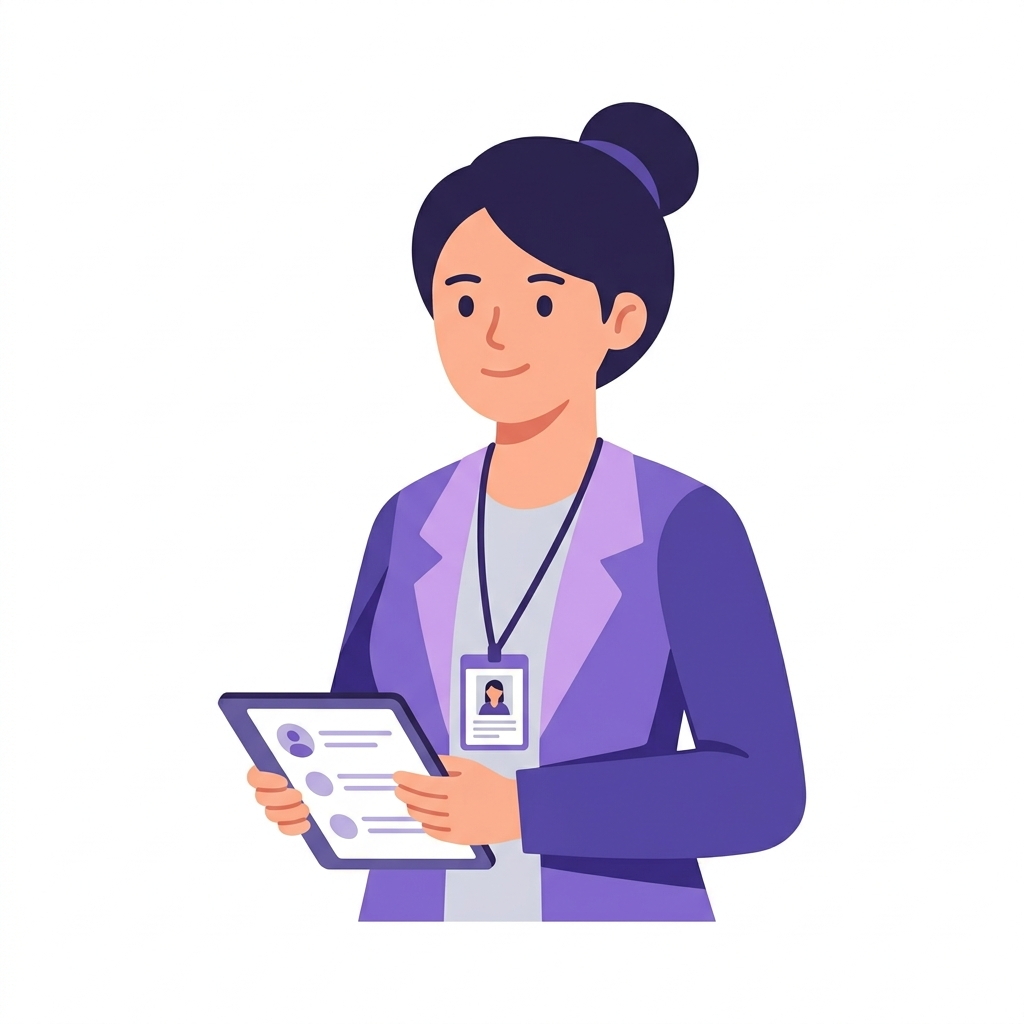
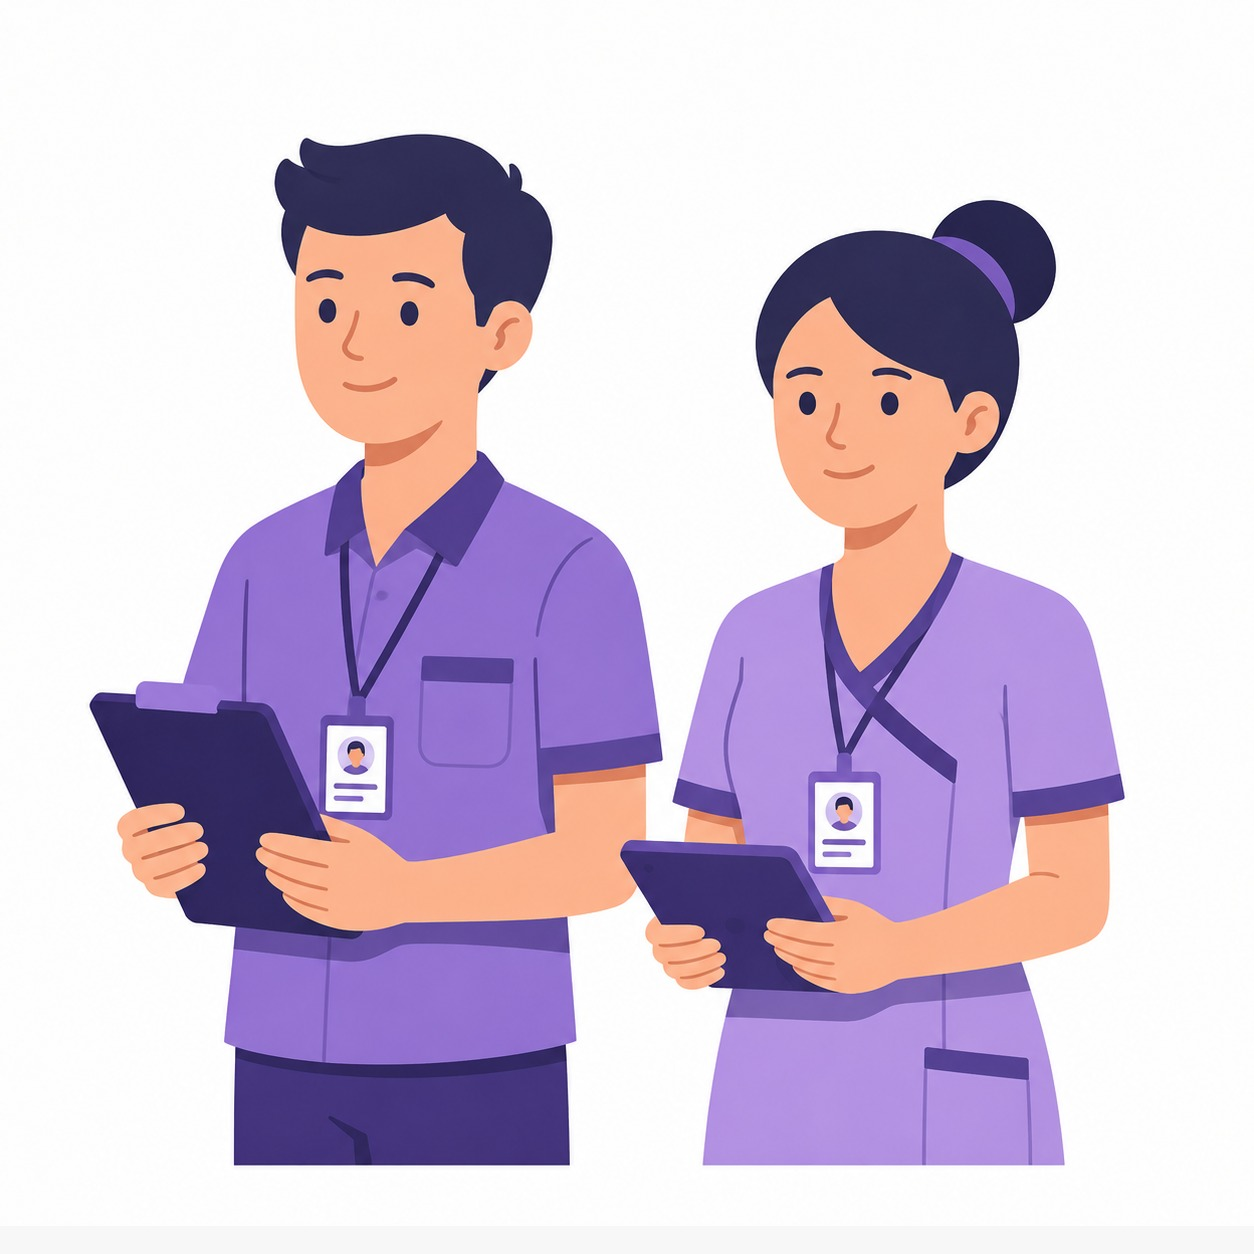
Improvise the UI interface of the grid login base  and make them into two parts as Student and other one as staff

diff --git a/safeexit/src/app/login/page.js b/safeexit/src/app/login/page.js
@@ -2,9 +2,10 @@
 
 import { useState, useEffect } from "react";
 import { useRouter } from "next/navigation";
-import { Shield, LogIn, Headphones, ShieldCheck, GraduationCap, UserCog, UserCheck, Crown, Lock, CheckCircle, ArrowLeft } from "lucide-react";
+import { Shield, Headphones, ShieldCheck, GraduationCap, UserCog, UserCheck, Crown, Lock, CheckCircle, ArrowLeft, ArrowRight, LogIn } from "lucide-react";
 import Image from "next/image";
 import Link from "next/link";
+import caretakerIllustration from "../../../public/images/login/caretaker.png";
 import { getToken } from "@/app/lib/auth";
 import { getStoredUser } from "@/app/lib/userProfile";
 import { CHIEF_WARDEN_PIN_KEY } from "@/app/lib/chiefWardenQuickLogin";
@@ -35,52 +36,198 @@ const ROLE_DASHBOARD = {
   admin: "/dashboard/admin",
 };
 
+// The versioned filename prevents Next/Image from serving the previously cached single-student artwork.
+const STUDENT_ILLUSTRATION = "/images/login/student-team.png";
+const STAFF_ILLUSTRATION = caretakerIllustration;
+
 const allRoles = [
   {
     id: "security",
-    title: "Security",
+    title: "Security Guard",
     icon: ShieldCheck,
     image: "/images/login/security-guard.png",
-    description: "Login as Security Guard to scan and verify entries",
-    buttonText: "Login as Security",
+    description: "Scan passes and verify student entry and exit.",
     href: "/login/security",
-    color: "from-indigo-500 to-indigo-700",
-    iconBg: "bg-indigo-100 text-indigo-600",
+    eyebrow: "Gate operations",
+    features: ["QR pass verification", "Entry and exit logs"],
+    accentClass: "bg-blue-600",
+    iconClass: "bg-blue-50 text-blue-700 ring-blue-100",
+    visualClass: "from-blue-50 via-indigo-50 to-white border-blue-100",
+    imageClass: "scale-[1.12] group-hover:scale-[1.17]",
   },
   {
     id: "student",
     title: "Student",
     icon: GraduationCap,
-    image: "/images/login/student.png",
-    description: "Login to request outings, view permissions and more",
-    buttonText: "Login as Student",
+    image: STUDENT_ILLUSTRATION,
+    description: "Request outings, track approvals and manage your campus access.",
     href: "/login/student",
-    color: "from-violet-500 to-violet-700",
-    iconBg: "bg-violet-100 text-violet-600",
+    eyebrow: "Student access",
+    features: ["Outing requests", "Live approval status"],
+    accentClass: "bg-indigo-600",
+    iconClass: "bg-indigo-50 text-indigo-700 ring-indigo-100",
+    visualClass: "from-indigo-50 via-violet-50 to-white border-indigo-100",
+    imageClass: "scale-[1.12] group-hover:scale-[1.17]",
   },
   {
     id: "caretaker",
     title: "Caretaker",
     icon: UserCog,
-    image: "/images/login/caretaker.png",
-    description: "Login to approve requests, manage complaints and monitor",
-    buttonText: "Login as Caretaker",
+    image: STAFF_ILLUSTRATION,
+    description: "Review requests, handle complaints and monitor students.",
     href: "/login/caretaker",
-    color: "from-purple-500 to-purple-700",
-    iconBg: "bg-purple-100 text-purple-600",
+    eyebrow: "Hostel operations",
+    features: ["Request review", "Student support"],
+    accentClass: "bg-violet-600",
+    iconClass: "bg-violet-50 text-violet-700 ring-violet-100",
+    visualClass: "from-violet-50 via-purple-50 to-white border-violet-100",
+    imageClass: "scale-[1.24] group-hover:scale-[1.29]",
   },
   {
     id: "warden",
     title: "Warden",
     icon: UserCheck,
-    image: "/images/login/caretaker.png",
-    description: "Login to decide the requests caretakers forward up to you",
-    buttonText: "Login as Warden",
+    image: STAFF_ILLUSTRATION,
+    description: "Review and decide requests forwarded by caretakers.",
     href: "/login/warden",
-    color: "from-teal-500 to-teal-700",
-    iconBg: "bg-teal-100 text-teal-600",
+    eyebrow: "Approvals and oversight",
+    features: ["Final decisions", "Escalation review"],
+    accentClass: "bg-purple-700",
+    iconClass: "bg-purple-50 text-purple-700 ring-purple-100",
+    visualClass: "from-purple-50 via-fuchsia-50/60 to-white border-purple-100",
+    imageClass: "scale-[1.24] group-hover:scale-[1.29]",
   },
 ];
+
+const STAFF_ROLE_IDS = new Set(["security", "caretaker", "warden"]);
+
+const staffCategory = {
+  id: "staff",
+  title: "Staff",
+  icon: UserCog,
+  description: "Access tools for security guards, caretakers and wardens.",
+  eyebrow: "Staff access",
+  features: ["Three dedicated roles", "Secure role-based tools"],
+  accentClass: "bg-violet-600",
+  iconClass: "bg-violet-50 text-violet-700 ring-violet-100",
+};
+
+const primaryButtonClass =
+  "mt-auto inline-flex w-full items-center justify-center gap-2 rounded-xl bg-indigo-600 px-4 py-3 text-sm font-bold text-white shadow-md shadow-indigo-600/20 transition-all duration-200 hover:bg-indigo-700 hover:shadow-lg hover:shadow-indigo-600/25 active:scale-[0.98] focus-visible:outline-none focus-visible:ring-2 focus-visible:ring-indigo-600 focus-visible:ring-offset-2";
+
+function RoleVisual({ role }) {
+  if (role.id === "staff") {
+    const staffIcons = [ShieldCheck, UserCog, UserCheck];
+
+    return (
+      <div className="relative mb-5 flex h-40 w-full items-center justify-center overflow-hidden rounded-2xl border border-violet-100 bg-gradient-to-br from-indigo-50 via-violet-50 to-white sm:h-48">
+        <div className="absolute -right-10 -top-12 h-36 w-36 rounded-full bg-violet-200/30 blur-2xl" />
+        <div className="absolute -bottom-12 -left-8 h-32 w-32 rounded-full bg-indigo-200/40 blur-2xl" />
+        <div className="relative flex items-end justify-center gap-2.5 sm:gap-3">
+          {staffIcons.map((Icon, index) => (
+            <div
+              key={index}
+              className={`flex items-center justify-center rounded-2xl border border-white bg-white/95 text-indigo-600 shadow-lg shadow-indigo-100 transition-transform duration-300 group-hover:-translate-y-1 ${
+                index === 1 ? "h-20 w-20 sm:h-24 sm:w-24" : "h-16 w-16 sm:h-20 sm:w-20"
+              }`}
+            >
+              <Icon className={index === 1 ? "h-9 w-9 sm:h-11 sm:w-11" : "h-7 w-7 sm:h-9 sm:w-9"} />
+            </div>
+          ))}
+        </div>
+      </div>
+    );
+  }
+
+  return (
+    <div className={`relative mb-5 h-40 w-full overflow-hidden rounded-2xl border bg-gradient-to-br sm:h-48 ${role.visualClass}`}>
+      <div className="absolute -right-10 -top-12 h-36 w-36 rounded-full bg-white/80 blur-2xl" />
+      <div className="absolute -bottom-14 -left-10 h-36 w-36 rounded-full bg-indigo-200/25 blur-2xl" />
+      <Image
+        src={role.image}
+        alt={`${role.title} illustration`}
+        fill
+        sizes="(max-width: 768px) 100vw, 320px"
+        className={`relative z-10 object-contain transition-transform duration-500 ${role.imageClass}`}
+      />
+    </div>
+  );
+}
+
+function RoleCard({ role, onSelect }) {
+  const Icon = role.icon;
+  const actionContent = onSelect ? (
+    <>
+      Choose staff role
+      <ArrowRight className="h-4 w-4" aria-hidden="true" />
+    </>
+  ) : (
+    <>
+      Login
+      <LogIn className="h-4 w-4" aria-hidden="true" />
+    </>
+  );
+
+  return (
+    <article className="group relative flex h-full flex-col items-center overflow-hidden rounded-3xl border border-slate-200/90 bg-white/95 p-5 text-center shadow-[0_10px_35px_rgba(79,70,229,0.08)] transition-all duration-300 hover:-translate-y-1 hover:border-indigo-200 hover:shadow-[0_22px_55px_rgba(79,70,229,0.16)] sm:p-6">
+      <div className={`absolute inset-x-0 top-0 h-1 ${role.accentClass}`} />
+
+      <div className="mb-4 flex w-full items-center justify-between gap-3 pt-1">
+        <span className="text-[11px] font-extrabold uppercase tracking-[0.16em] text-slate-500">
+          {role.eyebrow}
+        </span>
+        <span className="inline-flex items-center gap-1.5 rounded-full border border-emerald-100 bg-emerald-50 px-2.5 py-1 text-[10px] font-bold uppercase tracking-wide text-emerald-700">
+          <span className="h-1.5 w-1.5 rounded-full bg-emerald-500" />
+          Secure
+        </span>
+      </div>
+
+      <RoleVisual role={role} />
+
+      <div className={`mb-3 flex h-11 w-11 items-center justify-center rounded-xl shadow-sm ring-1 ${role.iconClass}`}>
+        <Icon className="h-5 w-5" aria-hidden="true" />
+      </div>
+
+      <h2 className="mb-1.5 text-lg font-bold text-slate-900 sm:text-xl">
+        {role.title}
+      </h2>
+      <p className="mb-5 max-w-[260px] flex-1 text-sm font-medium leading-6 text-slate-500">
+        {role.description}
+      </p>
+
+      <div className="mb-5 grid w-full grid-cols-1 gap-2 text-left">
+        {role.features.map((feature) => (
+          <div
+            key={feature}
+            className="flex min-h-10 items-center gap-2.5 rounded-xl border border-slate-100 bg-slate-50/80 px-3 py-2 text-xs font-semibold text-slate-600"
+          >
+            <CheckCircle className="h-4 w-4 shrink-0 text-indigo-500" aria-hidden="true" />
+            {feature}
+          </div>
+        ))}
+      </div>
+
+      {onSelect ? (
+        <button
+          type="button"
+          onClick={onSelect}
+          className={primaryButtonClass}
+          aria-label="Choose a staff role"
+        >
+          {actionContent}
+        </button>
+      ) : (
+        <Link
+          href={role.href}
+          className={primaryButtonClass}
+          aria-label={`Login as ${role.title}`}
+        >
+          {actionContent}
+        </Link>
+      )}
+    </article>
+  );
+}
 
 export default function LoginRoleSelect() {
   const router = useRouter();
@@ -91,6 +238,7 @@ export default function LoginRoleSelect() {
   const [enrolledRoles, setEnrolledRoles] = useState([]);
 
   const [showAll, setShowAll] = useState(false);
+  const [roleView, setRoleView] = useState("primary");
 
   useEffect(() => {
     /* eslint-disable react-hooks/set-state-in-effect -- hydrate role/session state from browser storage once on mount */
@@ -125,10 +273,20 @@ export default function LoginRoleSelect() {
   }, [router]);
 
   const enrolledPrimaryRoles = enrolledRoles.filter((role) => allRoles.some((item) => item.id === role));
-  const visibleRoles =
+  const availableRoles =
     showAll || enrolledPrimaryRoles.length === 0
       ? allRoles
       : allRoles.filter((r) => enrolledPrimaryRoles.includes(r.id));
+
+  const availableStudentRole = availableRoles.find((role) => role.id === "student");
+  const availableStaffRoles = availableRoles.filter((role) => STAFF_ROLE_IDS.has(role.id));
+  const visibleRoles =
+    roleView === "staff"
+      ? availableStaffRoles
+      : [
+          ...(availableStudentRole ? [availableStudentRole] : []),
+          ...(availableStaffRoles.length > 0 ? [staffCategory] : []),
+        ];
 
   if (pageState !== "ready") {
     return (
@@ -178,6 +336,7 @@ export default function LoginRoleSelect() {
   }
 
   const isFiltered = !showAll && enrolledPrimaryRoles.length > 0;
+  const isStaffView = roleView === "staff";
 
   return (
     <div className="min-h-screen flex flex-col bg-[#f0f0ff] relative overflow-hidden">
@@ -229,74 +388,53 @@ export default function LoginRoleSelect() {
         {/* Title */}
         <div className="text-center mb-5 sm:mb-10">
           <h1 className="text-2xl sm:text-4xl font-extrabold text-slate-900 tracking-tight">
-            {isFiltered ? (
+            {isStaffView ? (
+              <>Choose your <span className="text-indigo-600">staff role</span></>
+            ) : isFiltered ? (
               <>Welcome back to <span className="text-indigo-600">SafeExit</span></>
             ) : (
               <>Welcome to <span className="text-indigo-600">SafeExit</span></>
             )}
           </h1>
           <p className="text-slate-500 mt-1.5 text-sm sm:text-base font-medium">
-            {isFiltered
-              ? "Continue with your registered role"
-              : "Choose your role to continue to the login page"}
+            {isStaffView
+              ? "Select your responsibility to continue to the correct login page"
+              : isFiltered
+                ? "Continue with your registered access"
+                : "Are you a student or a staff member?"}
           </p>
           <div className="mx-auto mt-2 h-1 w-10 rounded-full bg-indigo-600"></div>
         </div>
 
+        {isStaffView && (
+          <div className="mb-4 w-full max-w-5xl sm:mb-5">
+            <button
+              type="button"
+              onClick={() => setRoleView("primary")}
+              className="inline-flex items-center gap-2 rounded-lg px-2 py-1.5 text-sm font-bold text-slate-600 transition-colors hover:bg-white/70 hover:text-indigo-600 focus-visible:outline-none focus-visible:ring-2 focus-visible:ring-indigo-600 focus-visible:ring-offset-2"
+            >
+              <ArrowLeft className="h-4 w-4" aria-hidden="true" />
+              Back to Student or Staff
+            </button>
+          </div>
+        )}
+
         {/* Role Cards */}
         <div
-          className={`grid grid-cols-1 ${
+          className={`grid w-full grid-cols-1 gap-5 sm:gap-6 lg:gap-8 ${
             visibleRoles.length === 1
-              ? "max-w-xs"
+              ? "max-w-sm"
               : visibleRoles.length === 2
-              ? "md:grid-cols-2 max-w-2xl"
-              : visibleRoles.length === 3
-              ? "md:grid-cols-3 max-w-4xl"
-              : "md:grid-cols-2 xl:grid-cols-4 max-w-6xl"
-          } gap-4 sm:gap-6 lg:gap-8 w-full`}
+                ? "max-w-3xl md:grid-cols-2"
+                : "max-w-5xl md:grid-cols-3"
+          }`}
         >
-          {visibleRoles.map((role, index) => (
-            <div
+          {visibleRoles.map((role) => (
+            <RoleCard
               key={role.id}
-              className="group relative bg-white rounded-2xl border border-slate-200/80 shadow-sm hover:shadow-xl hover:border-indigo-200 transition-all duration-300 overflow-hidden flex flex-col items-center text-center p-4 sm:p-6 pt-0"
-              style={{ animationDelay: `${index * 100}ms` }}
-            >
-              {/* Character Image */}
-              <div className="relative w-32 h-32 sm:w-48 sm:h-48 -mt-1 sm:-mt-2 mb-0.5 sm:mb-1">
-                <div className="absolute inset-0 bg-indigo-100/50 rounded-full scale-75 group-hover:scale-80 transition-transform duration-500"></div>
-                <Image
-                  src={role.image}
-                  alt={role.title}
-                  fill
-                  sizes="192px"
-                  className="object-contain relative z-10 group-hover:scale-105 transition-transform duration-500"
-                />
-              </div>
-
-              {/* Role Icon Badge */}
-              <div className={`h-9 w-9 sm:h-11 sm:w-11 rounded-full ${role.iconBg} flex items-center justify-center -mt-1.5 sm:-mt-2 mb-2 sm:mb-3 shadow-sm border border-white ring-2 sm:ring-4 ring-white`}>
-                <role.icon className="h-4 w-4 sm:h-5 sm:w-5" />
-              </div>
-
-              {/* Role Title */}
-              <h2 className="text-base sm:text-lg font-bold text-slate-900 mb-0.5 sm:mb-1">
-                {role.title}
-              </h2>
-
-              {/* Description */}
-              <p className="text-xs sm:text-sm text-slate-500 font-medium mb-3 sm:mb-5 leading-relaxed max-w-[180px] sm:max-w-[200px]">
-                {role.description}
-              </p>
-
-              {/* Login Button */}
-              <Link
-                href={role.href}
-                className={`w-full inline-flex items-center justify-center gap-2 px-4 py-2.5 sm:py-3 rounded-xl text-xs sm:text-sm font-bold text-white bg-gradient-to-r ${role.color} hover:opacity-90 shadow-md hover:shadow-lg active:scale-[0.98] transition-all duration-200 mt-auto`}
-              >
-                <LogIn className="h-4 w-4" />
-                {role.buttonText}
-              </Link>
-            </div>
+              role={role}
+              onSelect={role.id === "staff" ? () => setRoleView("staff") : undefined}
+            />
           ))}
         </div>
 
@@ -304,11 +442,12 @@ export default function LoginRoleSelect() {
         {isFiltered && (
           <div className="mt-6">
             <button
+              type="button"
               onClick={() => setShowAll(true)}
-              className="inline-flex items-center gap-2 text-sm font-semibold text-slate-500 hover:text-indigo-600 transition-colors"
+              className="inline-flex items-center gap-2 rounded-lg px-3 py-2 text-sm font-semibold text-slate-500 transition-colors hover:bg-white/70 hover:text-indigo-600 focus-visible:outline-none focus-visible:ring-2 focus-visible:ring-indigo-600 focus-visible:ring-offset-2"
             >
-              <ArrowLeft className="h-3.5 w-3.5" />
-              Show all roles
+              <ArrowRight className="h-3.5 w-3.5" aria-hidden="true" />
+              {isStaffView ? "Show all staff roles" : "Show all roles"}
             </button>
           </div>
         )}
